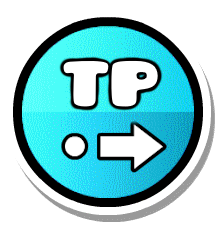
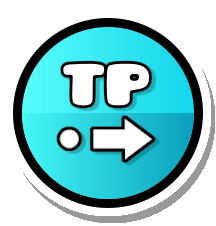
add squish anim

diff --git a/src/hooks/play_layer.cpp b/src/hooks/play_layer.cpp
@@ -37,6 +37,8 @@ float adjustLerpTimeDelta(float dt) {
 bool GlobedPlayLayer::init(GJGameLevel* level, bool p1, bool p2) {
     if (!PlayLayer::init(level, p1, p2)) return false;
 
+    m_fields->initialTestMode = m_isTestMode;
+
     GlobedSettings& settings = GlobedSettings::get();
 
     auto winSize = CCDirector::get()->getWinSize();
@@ -104,20 +106,14 @@ bool GlobedPlayLayer::init(GJGameLevel* level, bool p1, bool p2) {
     vm.setRecordBufferCapacity(settings.communication.lowerAudioLatency ? EncodedAudioFrame::LIMIT_LOW_LATENCY : EncodedAudioFrame::LIMIT_REGULAR);
 
     // start passive voice recording
-    // TODO temp remove on android because it crashes the game :fire:
+    // TODO fix it on android and mac
     if (settings.communication.voiceEnabled) {
-# ifndef GEODE_IS_ANDROID
+# ifdef GEODE_IS_WINDOWS
         auto& vrm = VoiceRecordingManager::get();
         vrm.startRecording();
-# endif // GEODE_IS_ANDROID
+# endif // GEODE_IS_WINDOWS
 
         if (settings.levelUi.voiceOverlay) {
-            // auto uiLayer = getChildOfType<UILayer>(this, 0);
-            // if (uiLayer) {
-            //     log::info("ui layer: {}", util::debug::searchMember(this, uiLayer, 0x5000));
-            // } else {
-            //     log::info("failed to find ui layer!");
-            // }
             m_fields->voiceOverlay = Build<GlobedVoiceOverlay>::create()
                 .parent(m_uiLayer)
                 .pos(winSize.width - VOICE_OVERLAY_PAD_X, VOICE_OVERLAY_PAD_Y)
@@ -159,6 +155,7 @@ bool GlobedPlayLayer::init(GJGameLevel* level, bool p1, bool p2) {
         // send LevelJoinPacket and RequestPlayerProfilesPacket
         nm.send(LevelJoinPacket::create(self->m_level->m_levelID));
         nm.send(RequestPlayerProfilesPacket::create(0));
+        self->selSendPlayerMetadata(0.f);
 
         self->rescheduleSelectors();
         CCScheduler::get()->scheduleSelector(schedule_selector(GlobedPlayLayer::selUpdate), self->getParent(), 0.0f, false);
@@ -274,25 +271,26 @@ void GlobedPlayLayer::setupPacketListeners() {
 
 void GlobedPlayLayer::fullReset() {
     PlayLayer::fullReset();
-    static_cast<HookedGJGameLevel*>(m_level)->m_fields->shouldStopProgress = false; // turn off safe mode if it was turned on at any time
+    // turn off safe mode
+    this->toggleSafeMode(false);
 }
 
 void GlobedPlayLayer::resetLevel() {
     PlayLayer::resetLevel();
     if (!m_level->isPlatformer()) {
         // turn off safe mode in non-platformer levels (as this counts as a full reset)
-        static_cast<HookedGJGameLevel*>(m_level)->m_fields->shouldStopProgress = false;
+        this->toggleSafeMode(false);
     }
 }
 
 void GlobedPlayLayer::showNewBest(bool p0, int p1, int p2, bool p3, bool p4, bool p5) {
     // doesn't actually change any progress but this stops the NEW BEST popup from showing up while cheating/jumping to a player
-    if (!static_cast<HookedGJGameLevel*>(m_level)->m_fields->shouldStopProgress) PlayLayer::showNewBest(p0, p1, p2, p3, p4, p5);
+    if (!this->isSafeMode()) PlayLayer::showNewBest(p0, p1, p2, p3, p4, p5);
 }
 
 void GlobedPlayLayer::levelComplete() {
-    log::debug("level complete, should stop: {}", static_cast<HookedGJGameLevel*>(m_level)->m_fields->shouldStopProgress);
-    if (!static_cast<HookedGJGameLevel*>(m_level)->m_fields->shouldStopProgress) PlayLayer::levelComplete();
+    log::debug("level complete, should stop: {}", this->isSafeMode());
+    if (!this->isSafeMode()) PlayLayer::levelComplete();
     else GlobedPlayLayer::onQuit();
 }
 
@@ -480,12 +478,15 @@ void GlobedPlayLayer::selUpdate(float rawdt) {
     for (const auto [playerId, remotePlayer] : self->m_fields->players) {
         const auto& vstate = self->m_fields->interpolator->getPlayerState(playerId);
 
-        bool playDeathEffect = self->m_fields->interpolator->swapDeathStatus(playerId);
-        auto p1tp = self->m_fields->interpolator->swapP1Teleport(playerId);
-        auto p2tp = self->m_fields->interpolator->swapP2Teleport(playerId);
+        auto frameFlags = self->m_fields->interpolator->swapFrameFlags(playerId);
 
         bool isSpeaking = vpm.isSpeaking(playerId);
-        remotePlayer->updateData(vstate, playDeathEffect, isSpeaking, p1tp, p2tp, isSpeaking ? vpm.getLoudness(playerId) : 0.f);
+        remotePlayer->updateData(
+            vstate,
+            frameFlags,
+            isSpeaking,
+            isSpeaking ? vpm.getLoudness(playerId) : 0.f
+        );
 
         if (self->m_progressBar && self->m_progressBar->isVisible() && remotePlayer->progressIcon) {
             remotePlayer->updateProgressIcon();
@@ -531,6 +532,19 @@ bool GlobedPlayLayer::isPaused() {
     }
 
     return false;
+}
+
+void GlobedPlayLayer::toggleSafeMode(bool enabled) {
+    static_cast<HookedGJGameLevel*>(m_level)->m_fields->shouldStopProgress = enabled;
+    if (enabled) {
+        m_isTestMode = true;
+    } else {
+        m_isTestMode = m_fields->initialTestMode;
+    }
+}
+
+bool GlobedPlayLayer::isSafeMode() {
+    return static_cast<HookedGJGameLevel*>(m_level)->m_fields->shouldStopProgress;
 }
 
 bool GlobedPlayLayer::shouldLetMessageThrough(int playerId) {
@@ -586,6 +600,7 @@ SpecificIconData GlobedPlayLayer::gatherSpecificIconData(PlayerObject* player) {
     bool isPlayer1 = player == m_player1;
 
     auto spiderTeleportData = isPlayer1 ? util::misc::swapOptional(m_fields->spiderTp1) : util::misc::swapOptional(m_fields->spiderTp2);
+    bool didJustJump = isPlayer1 ? util::misc::swapFlag(m_fields->didJustJumpp1) : util::misc::swapFlag(m_fields->didJustJumpp2);
 
     bool isStationary = false;
     if (m_level->isPlatformer()) {
@@ -605,6 +620,7 @@ SpecificIconData GlobedPlayLayer::gatherSpecificIconData(PlayerObject* player) {
         .isGrounded = player->m_isOnGround,
         .isStationary = isStationary,
         .isFalling = player->m_yVelocity < 0.0,
+        .didJustJump = didJustJump,
         .spiderTeleportData = spiderTeleportData
     };
 }

diff --git a/src/game/interpolator.cpp b/src/game/interpolator.cpp
@@ -34,12 +34,14 @@ void PlayerInterpolator::updatePlayer(int playerId, const PlayerData& data, floa
     if (!util::math::equal(player.lastDeathTimestamp, data.lastDeathTimestamp)) {
         player.lastDeathTimestamp = data.lastDeathTimestamp;
         if (player.totalFrames > 1) {
-            player.pendingDeath = true;
+            player.frameFlags.pendingDeath = true;
         }
     }
 
-    player.pendingP1Teleport = data.player1.spiderTeleportData;
-    player.pendingP2Teleport = data.player2.spiderTeleportData;
+    player.frameFlags.pendingP1Teleport = data.player1.spiderTeleportData;
+    player.frameFlags.pendingP2Teleport = data.player2.spiderTeleportData;
+    player.frameFlags.pendingP1Jump = data.player1.didJustJump;
+    player.frameFlags.pendingP2Jump = data.player1.didJustJump;
 
     LerpLogger::get().logRealFrame(playerId, this->getLocalTs(), data.timestamp, data.player1);
 
@@ -119,19 +121,17 @@ VisualPlayerState& PlayerInterpolator::getPlayerState(int playerId) {
     return players.at(playerId).interpolatedState;
 }
 
-bool PlayerInterpolator::swapDeathStatus(int playerId) {
+FrameFlags PlayerInterpolator::swapFrameFlags(int playerId) {
     auto& state = players.at(playerId);
-    return util::misc::swapFlag(state.pendingDeath);
-}
+    FrameFlags out;
+    out.pendingDeath = util::misc::swapFlag(state.frameFlags.pendingDeath);
+    out.pendingP1Jump = util::misc::swapFlag(state.frameFlags.pendingP1Jump);
+    out.pendingP2Jump = util::misc::swapFlag(state.frameFlags.pendingP2Jump);
 
-std::optional<SpiderTeleportData> PlayerInterpolator::swapP1Teleport(int playerId) {
-    auto& state = players.at(playerId);
-    return util::misc::swapOptional(state.pendingP1Teleport);
-}
+    out.pendingP1Teleport = util::misc::swapOptional(state.frameFlags.pendingP1Teleport);
+    out.pendingP2Teleport = util::misc::swapOptional(state.frameFlags.pendingP2Teleport);
 
-std::optional<SpiderTeleportData> PlayerInterpolator::swapP2Teleport(int playerId) {
-    auto& state = players.at(playerId);
-    return util::misc::swapOptional(state.pendingP2Teleport);
+    return out;
 }
 
 bool PlayerInterpolator::isPlayerStale(int playerId, float lastServerPacket) {

diff --git a/src/ui/game/player/remote_player.cpp b/src/ui/game/player/remote_player.cpp
@@ -53,25 +53,31 @@ const PlayerAccountData& RemotePlayer::getAccountData() const {
 
 void RemotePlayer::updateData(
         const VisualPlayerState& data,
-        bool playDeathEffect,
+        FrameFlags frameFlags,
         bool speaking,
-        std::optional<SpiderTeleportData> p1tp,
-        std::optional<SpiderTeleportData> p2tp,
         float loudness
 ) {
     player1->updateData(data.player1, data, speaking, loudness);
     player2->updateData(data.player2, data, speaking, loudness);
 
-    if (playDeathEffect && GlobedSettings::get().players.deathEffects) {
+    if (frameFlags.pendingDeath && GlobedSettings::get().players.deathEffects) {
         player1->playDeathEffect();
     }
 
-    if (p1tp) {
-        player1->playSpiderTeleport(p1tp.value());
+    if (frameFlags.pendingP1Teleport) {
+        player1->playSpiderTeleport(frameFlags.pendingP1Teleport.value());
     }
 
-    if (p2tp) {
-        player2->playSpiderTeleport(p2tp.value());
+    if (frameFlags.pendingP2Teleport) {
+        player2->playSpiderTeleport(frameFlags.pendingP2Teleport.value());
+    }
+
+    if (frameFlags.pendingP1Jump) {
+        player1->playJump();
+    }
+
+    if (frameFlags.pendingP2Jump) {
+        player2->playJump();
     }
 
     lastPercentage = data.currentPercentage;

diff --git a/src/game/interpolator.hpp b/src/game/interpolator.hpp
@@ -32,11 +32,7 @@ public:
     VisualPlayerState& getPlayerState(int playerId);
 
     // returns `true` if death animation needs to be played and sets the flag back to false (so next call won't return `true` again)
-    bool swapDeathStatus(int playerId);
-
-    // like `swapDeathStatus` but for spider teleports.
-    std::optional<SpiderTeleportData> swapP1Teleport(int playerId);
-    std::optional<SpiderTeleportData> swapP2Teleport(int playerId);
+    FrameFlags swapFrameFlags(int playerId);
 
     // returns `true` if the given time of the last packet doesn't match the last update time of the player
     bool isPlayerStale(int playerId, float lastServerPacket);
@@ -50,6 +46,7 @@ private:
     constexpr static bool EXTRAPOLATION = false;
 
 public:
+
     struct LerpFrame {
         LerpFrame();
         LerpFrame(const PlayerData& pd);
@@ -67,7 +64,6 @@ public:
         LerpFrame olderFrame, newerFrame;
         VisualPlayerState interpolatedState;
         bool pendingRealFrame = false;
-        bool pendingDeath = false;
-        std::optional<SpiderTeleportData> pendingP1Teleport, pendingP2Teleport;
+        FrameFlags frameFlags;
     };
 };

diff --git a/src/data/types/game.hpp b/src/data/types/game.hpp
@@ -42,7 +42,8 @@ struct SpecificIconData {
             isMini,
             isGrounded,
             isStationary,
-            isFalling
+            isFalling,
+            didJustJump
         ));
 
         buf.writeOptionalValue(spiderTeleportData);
@@ -66,7 +67,8 @@ struct SpecificIconData {
             isMini,
             isGrounded,
             isStationary,
-            isFalling
+            isFalling,
+            didJustJump
         );
 
         spiderTeleportData = buf.readOptionalValue<SpiderTeleportData>();
@@ -97,6 +99,7 @@ struct SpecificIconData {
     bool isStationary;      // true if player is not moving currently (in platformer)
     bool isFalling;         // when !isGrounded, true if falling, false if jumping upwards
 
+    bool didJustJump;       // true on the next frame after the player performed a jump
     std::optional<SpiderTeleportData> spiderTeleportData;
 };
 

diff --git a/src/hooks/play_layer.hpp b/src/hooks/play_layer.hpp
@@ -17,6 +17,7 @@ float adjustLerpTimeDelta(float dt);
 class $modify(GlobedPlayLayer, PlayLayer) {
     // setup stuff
     bool globedReady = false;
+    bool initialTestMode = false;
     uint32_t configuredTps = 0;
 
     // in game stuff
@@ -30,6 +31,7 @@ class $modify(GlobedPlayLayer, PlayLayer) {
 
     bool isCurrentlyDead = false;
     std::optional<SpiderTeleportData> spiderTp1, spiderTp2;
+    bool didJustJumpp1 = false, didJustJumpp2 = false;
     float lastDeathTimestamp = 0.f;
 
     // ui elements
@@ -97,6 +99,9 @@ class $modify(GlobedPlayLayer, PlayLayer) {
     }
 
     bool isPaused();
+
+    void toggleSafeMode(bool enabled);
+    bool isSafeMode();
 
     bool shouldLetMessageThrough(int playerId);
     void updateProximityVolume(int playerId);

diff --git a/src/ui/game/player/complex_visual_player.cpp b/src/ui/game/player/complex_visual_player.cpp
@@ -13,6 +13,7 @@ bool ComplexVisualPlayer::init(RemotePlayer* parent, bool isSecond) {
     if (!CCNode::init() || !BaseVisualPlayer::init(parent, isSecond)) return false;
 
     this->playLayer = PlayLayer::get();
+    this->isPlatformer = playLayer->m_level->isPlatformer();
 
     auto& data = parent->getAccountData();
 
@@ -223,6 +224,12 @@ void ComplexVisualPlayer::playSpiderTeleport(const SpiderTeleportData& data) {
     tpColorDelta = 0.f;
 
     this->spiderTeleportUpdateColor();
+}
+
+void ComplexVisualPlayer::playJump() {
+    if (playLayer->m_level->isPlatformer() && playerIconType == PlayerIconType::Cube) {
+        playerIcon->animatePlatformerJump(1.0f);
+    }
 }
 
 static inline ccColor3B lerpColor(ccColor3B from, ccColor3B to, float delta) {

diff --git a/src/ui/game/player/complex_visual_player.hpp b/src/ui/game/player/complex_visual_player.hpp
@@ -18,6 +18,7 @@ public:
     void updateIconType(PlayerIconType newType) override;
     void playDeathEffect() override;
     void playSpiderTeleport(const SpiderTeleportData& data) override;
+    void playJump() override;
     cocos2d::CCPoint getPlayerPosition() override;
 
     void updatePlayerObjectIcons(bool skipFrames = false);
@@ -33,6 +34,7 @@ protected:
     PlayerIconType playerIconType = PlayerIconType::Unknown;
     cocos2d::CCLabelBMFont* playerName;
     Ref<PlayerStatusIcons> statusIcons;
+    bool isPlatformer;
 
     // these 3 used in robot and spider anims
     bool wasGrounded = false;

diff --git a/src/hooks/player_object.cpp b/src/hooks/player_object.cpp
@@ -63,3 +63,20 @@ void HookedPlayerObject::playSpiderDashEffect(cocos2d::CCPoint from, cocos2d::CC
 
     PlayerObject::playSpiderDashEffect(from, to);
 }
+
+void HookedPlayerObject::incrementJumps() {
+    if (PlayLayer::get() == nullptr) {
+        PlayerObject::incrementJumps();
+        return;
+    }
+
+    auto* gpl = static_cast<GlobedPlayLayer*>(PlayLayer::get());
+
+    if (this == gpl->m_player1) {
+        gpl->m_fields->didJustJumpp1 = true;
+    } else if (this == gpl->m_player2) {
+        gpl->m_fields->didJustJumpp2 = true;
+    }
+
+    PlayerObject::incrementJumps();
+}

diff --git a/src/ui/game/userlist/user_cell.cpp b/src/ui/game/userlist/user_cell.cpp
@@ -194,7 +194,7 @@ void GlobedUserCell::makeButtons() {
                         return;
                     }
 
-                    static_cast<HookedGJGameLevel*>(gpl->m_level)->m_fields->shouldStopProgress = true; // turn on safe mode
+                    gpl->toggleSafeMode(true);
 
                     PlayerObject* po1 = gpl->m_player1;
                     CCPoint position = {0,0}; // just in case the player has already left by the time we teleport

diff --git a/src/ui/game/player/base_visual_player.hpp b/src/ui/game/player/base_visual_player.hpp
@@ -20,6 +20,7 @@ public:
     virtual void updateIconType(PlayerIconType newType) = 0;
     virtual void playDeathEffect() = 0;
     virtual void playSpiderTeleport(const SpiderTeleportData& data) = 0;
+    virtual void playJump() = 0;
     virtual cocos2d::CCPoint getPlayerPosition() = 0;
 
     static int getIconWithType(const PlayerIconData& data, PlayerIconType type);

diff --git a/src/ui/game/player/remote_player.hpp b/src/ui/game/player/remote_player.hpp
@@ -15,10 +15,8 @@ public:
 
     void updateData(
         const VisualPlayerState& data,
-        bool playDeathEffect,
+        FrameFlags frameFlags,
         bool speaking,
-        std::optional<SpiderTeleportData> p1tp,
-        std::optional<SpiderTeleportData> p2tp,
         float loudness
     );
     void updateProgressIcon();
